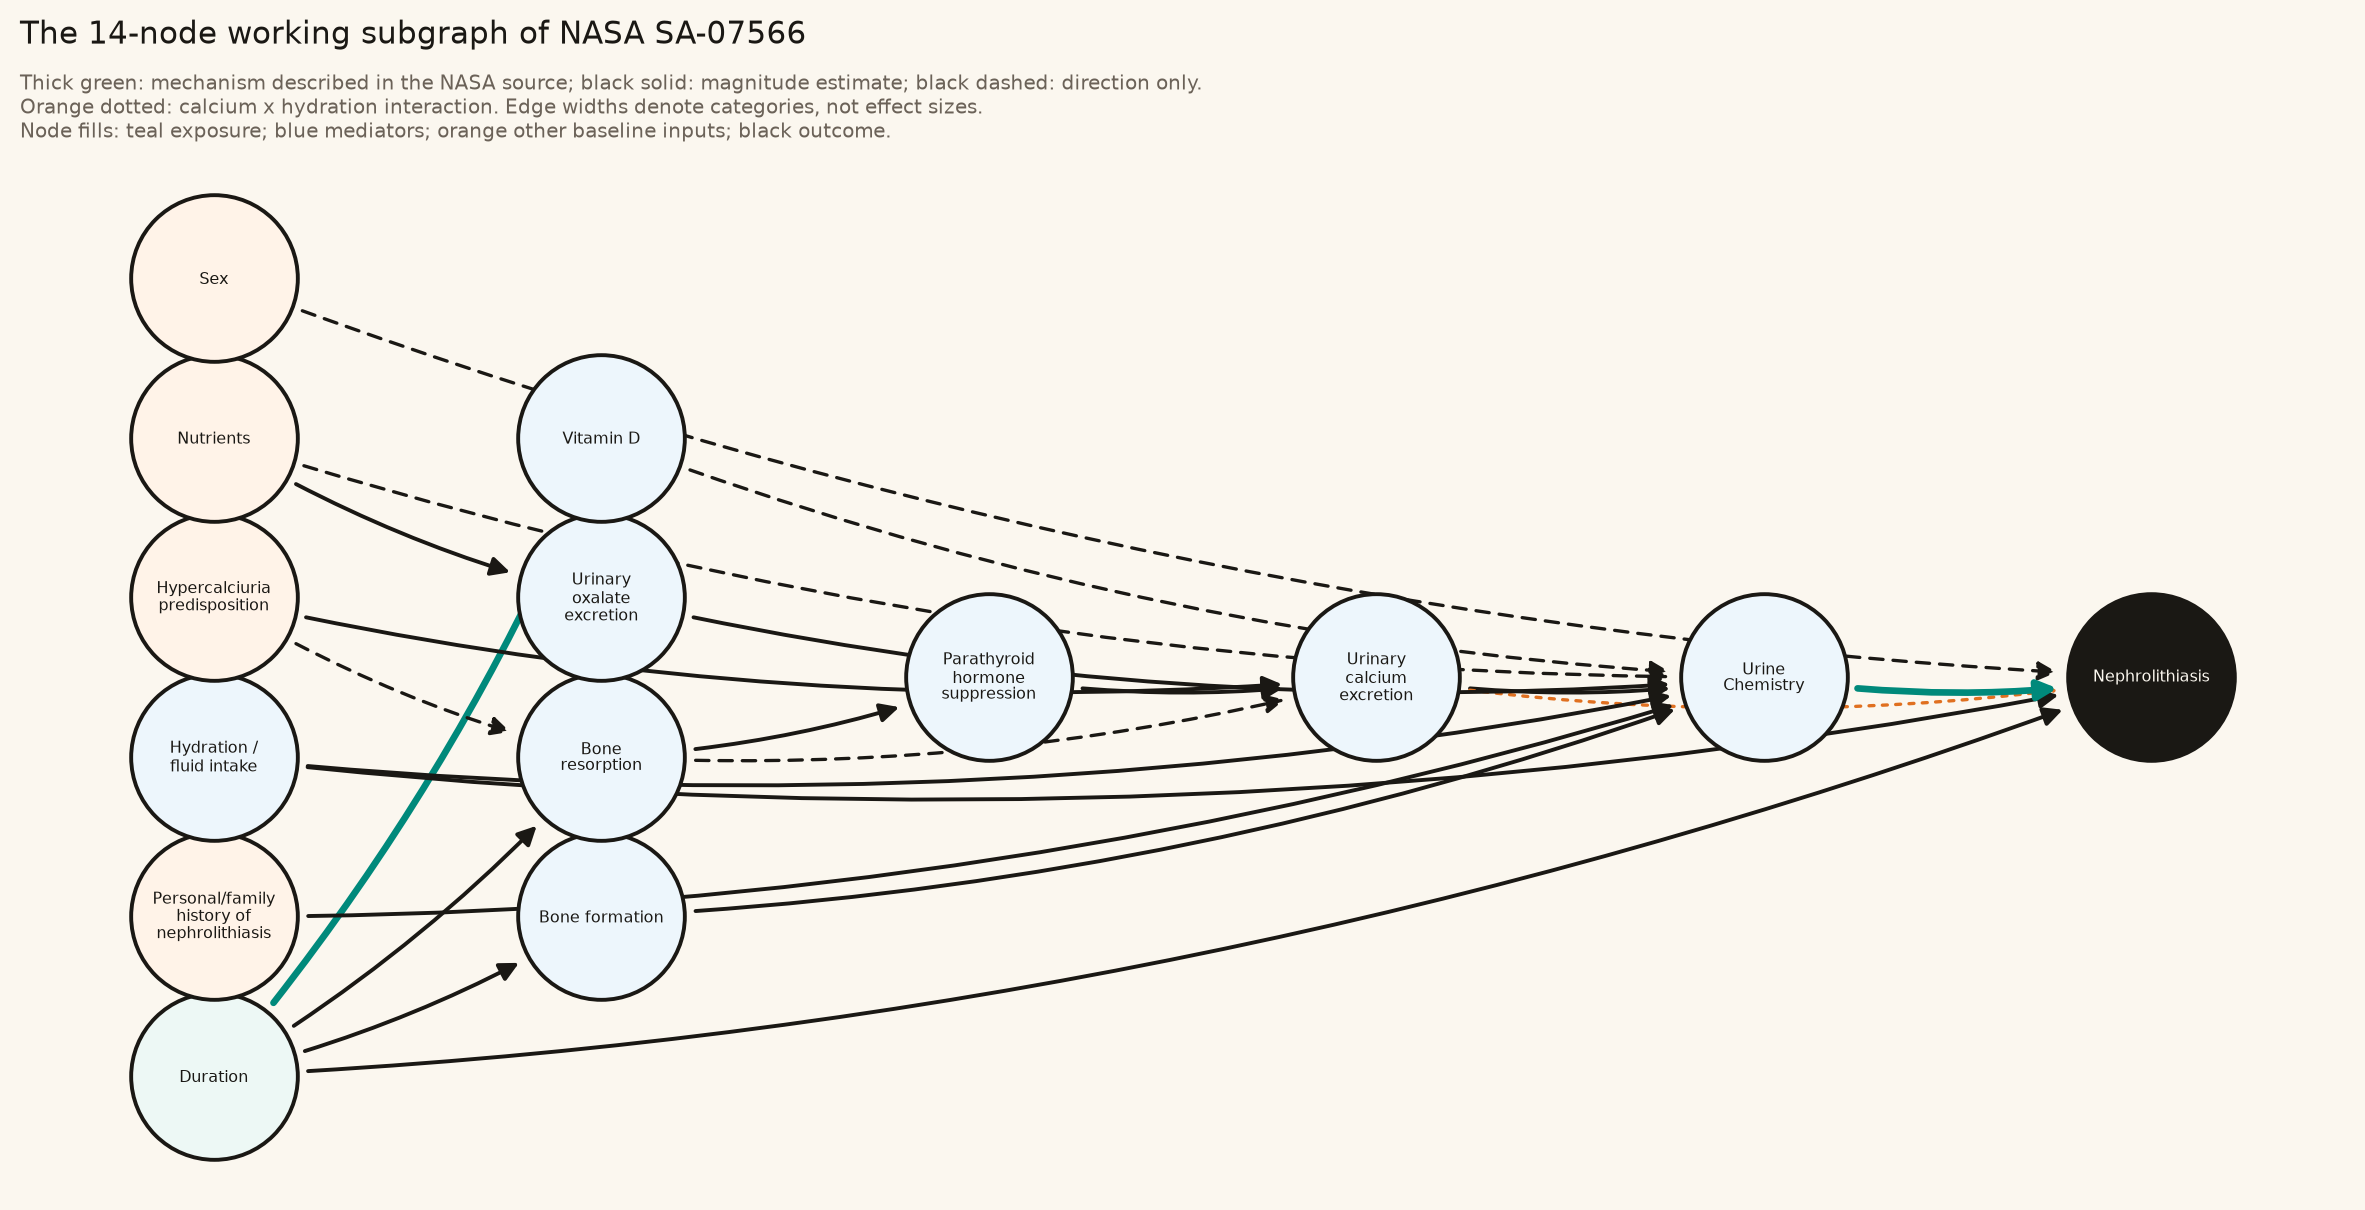
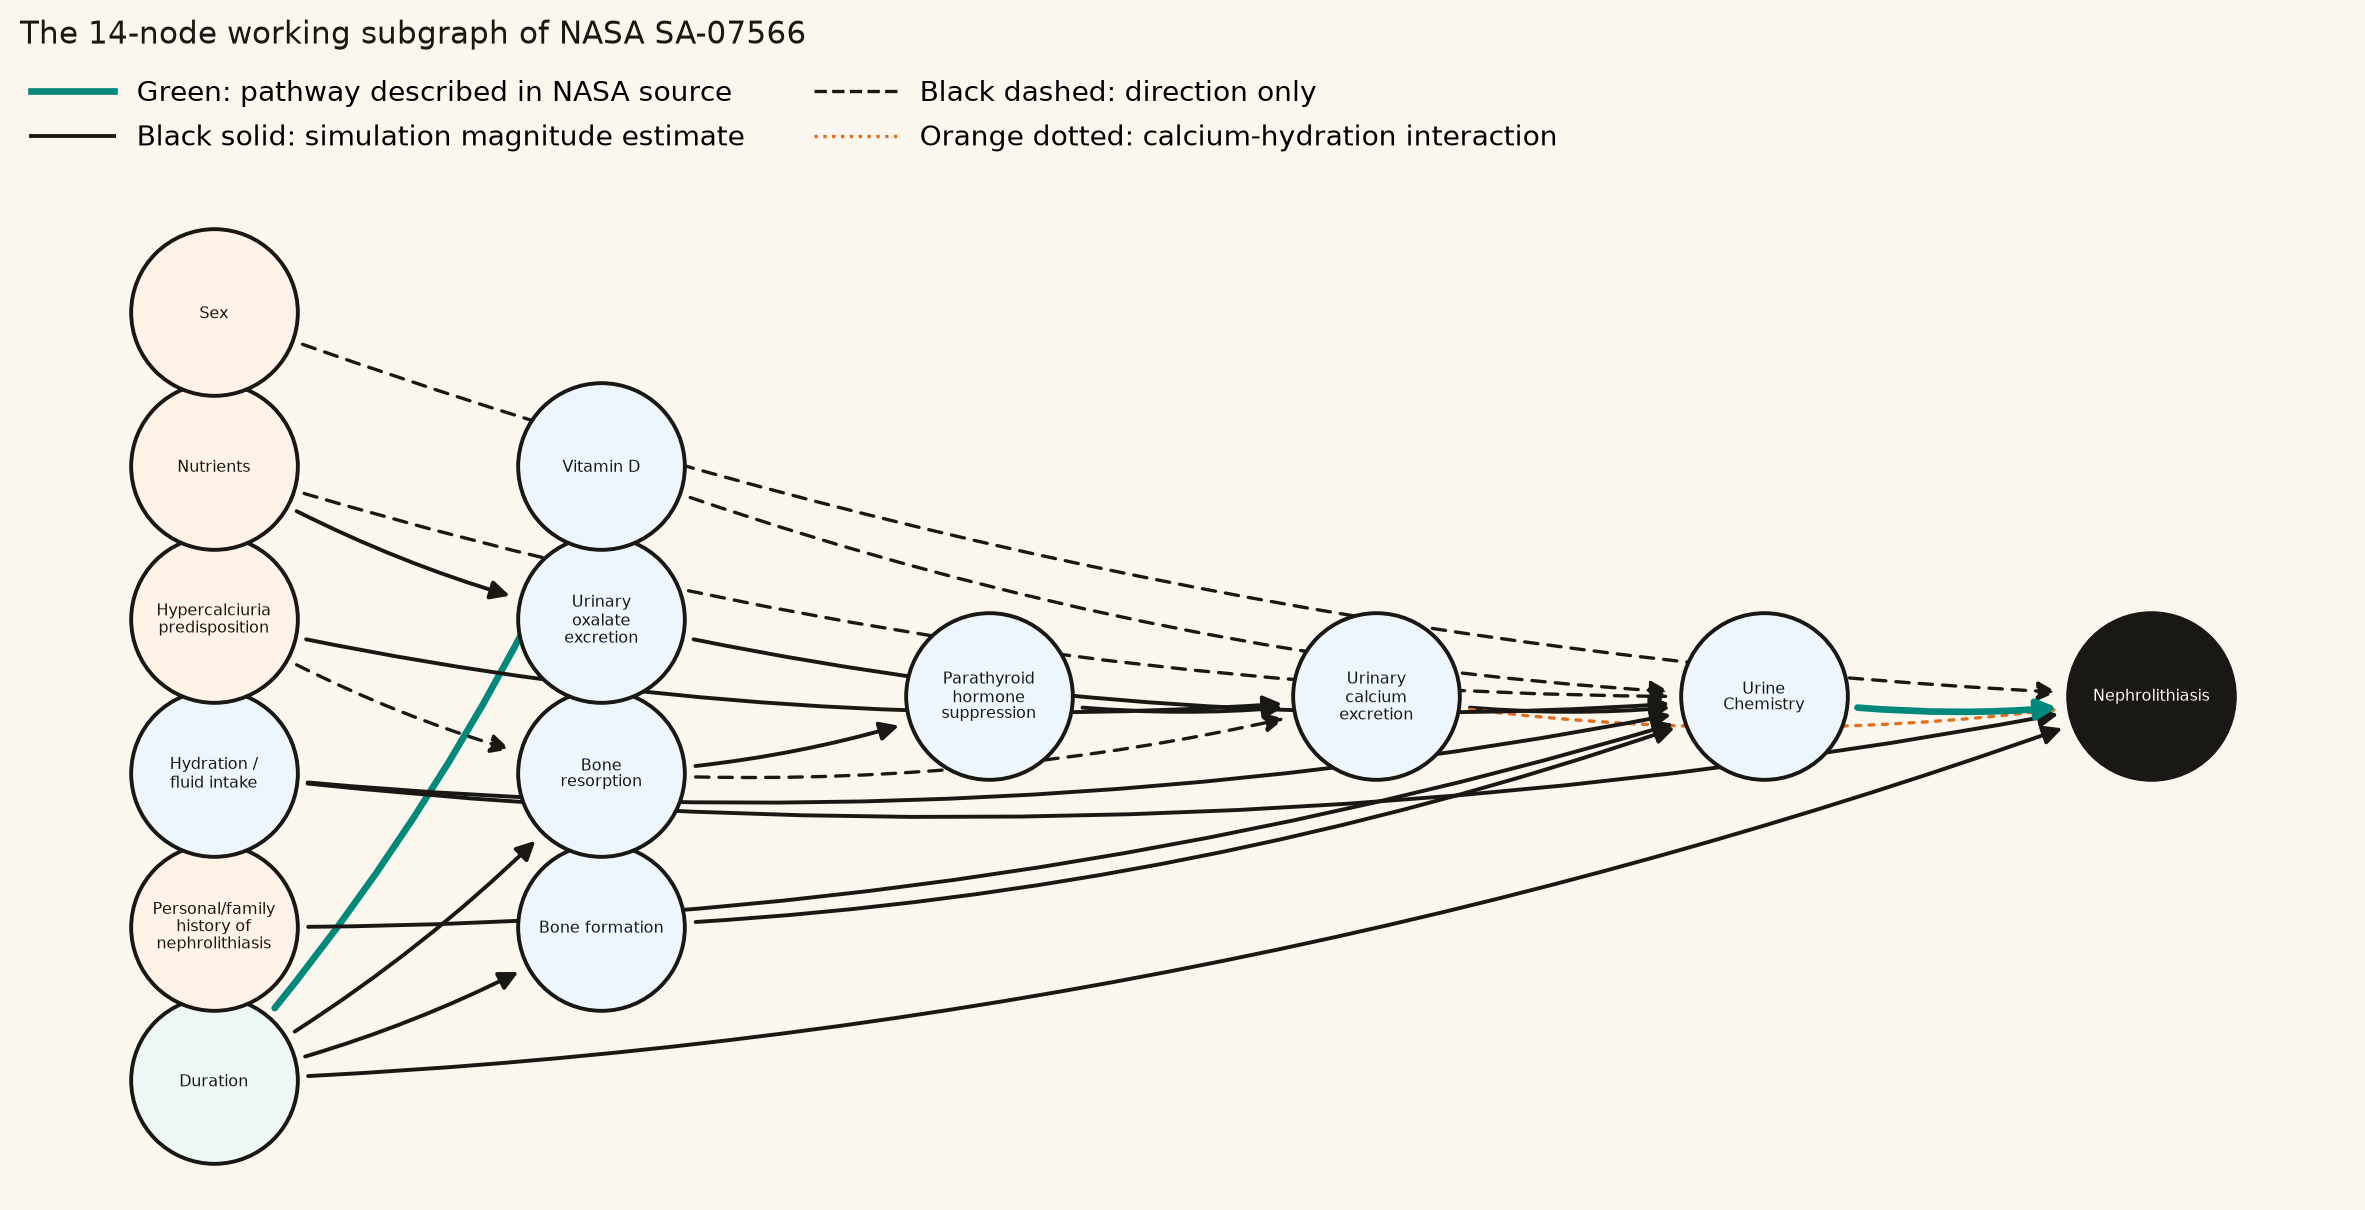
Make Figure 1 edge legend explicit and readable

diff --git a/analysis/working_subgraph_figure.py b/analysis/working_subgraph_figure.py
@@ -20,6 +20,7 @@ import matplotlib.pyplot as plt
 import networkx as nx
 import yaml
 from matplotlib.patches import FancyArrowPatch
+from matplotlib.lines import Line2D
 
 REPO = Path(__file__).resolve().parents[1]
 OUT = REPO / "docs" / "images"
@@ -75,14 +76,18 @@ def main() -> None:
         ax.text(x, y, label, ha="center", va="center", fontsize=5.9, zorder=4,
                 color=PAPER if kind == "outcome" else INK, linespacing=1.05)
     ax.set_xlim(-2.0, max(x for x, _ in pos.values()) + 2.0)
-    ax.set_ylim(min(y for _, y in pos.values()) - 1.5, max(y for _, y in pos.values()) + 3.4)
+    ax.set_ylim(min(y for _, y in pos.values()) - 1.5, max(y for _, y in pos.values()) + 4.0)
     ax.text(0.0, 1.0, "The 14-node working subgraph of NASA SA-07566", transform=ax.transAxes,
             fontsize=11, color=INK, va="top")
-    ax.text(0.0, 0.955,
-            "Thick green: mechanism described in the NASA source; black solid: magnitude estimate; black dashed: direction only.\n"
-            "Orange dotted: calcium x hydration interaction. Edge widths denote categories, not effect sizes.\n"
-            "Node fills: teal exposure; blue mediators; orange other baseline inputs; black outcome.",
-            transform=ax.transAxes, fontsize=7.2, color=MUTE, va="top")
+    handles = [
+        Line2D([], [], color="#00897b", lw=2.4, label="Green: pathway described in NASA source"),
+        Line2D([], [], color=INK, lw=1.4, label="Black solid: simulation magnitude estimate"),
+        Line2D([], [], color=INK, lw=1.2, ls="--", label="Black dashed: direction only"),
+        Line2D([], [], color="#e07020", lw=1.2, ls=":", label="Orange dotted: calcium-hydration interaction"),
+    ]
+    ax.legend(handles=handles, loc="upper left", bbox_to_anchor=(0, 0.958),
+              ncol=2, frameon=False, fontsize=10, handlelength=3, borderaxespad=0,
+              columnspacing=2.5, labelspacing=0.6)
     OUT.mkdir(parents=True, exist_ok=True)
     fig.savefig(OUT / "working_subgraph_dag.png", dpi=200, bbox_inches="tight", facecolor=PAPER)
     fig.savefig(OUT / "working_subgraph_dag.pdf", bbox_inches="tight", facecolor=PAPER)
